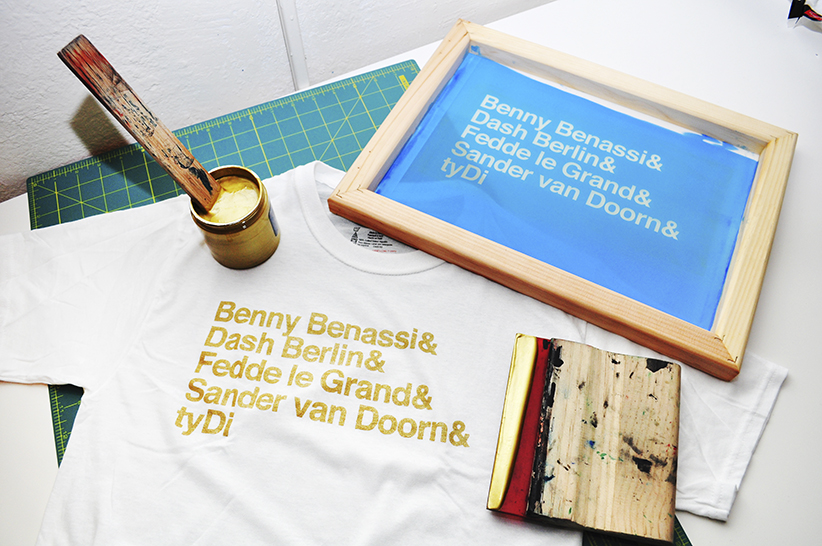
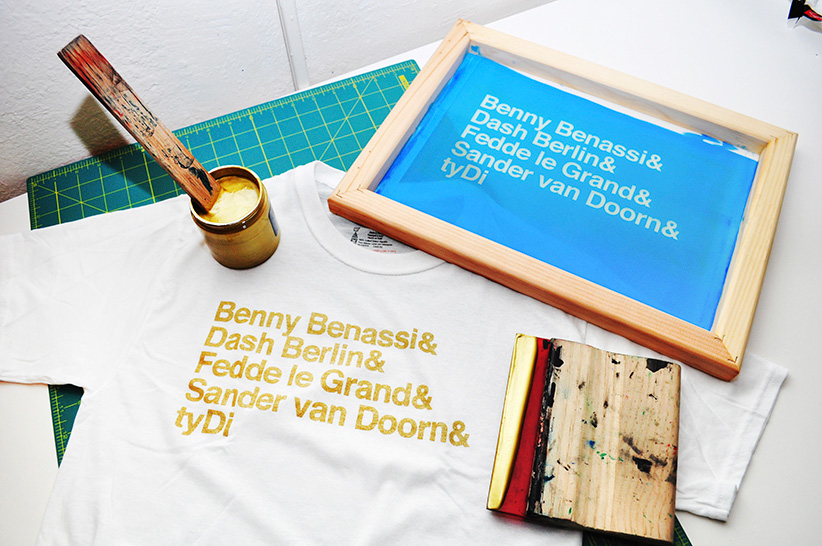
lower quality images processed and htmls updated

diff --git a/photo/8.html b/photo/8.html
@@ -31,7 +31,7 @@
         <div class='hr bg-green'></div>
         <div class='vspace110'></div>
         <div class='content'>
-          <img src="../img/intothecircle/photos/familys-friend.png"/>
+          <img src="../img/intothecircle/photos/familys-friend.jpg"/>
         </div>
       </div>
       <footer></footer>

diff --git a/photo/15.html b/photo/15.html
@@ -31,7 +31,7 @@
         <div class='hr bg-green'></div>
         <div class='vspace110'></div>
         <div class='content'>
-          <img src="../img/intothecircle/photos/welcome_copy.png"/>
+          <img src="../img/intothecircle/photos/welcome_copy.jpg"/>
         </div>
       </div>
       <footer></footer>

diff --git a/photo/5.html b/photo/5.html
@@ -31,7 +31,7 @@
         <div class='hr bg-green'></div>
         <div class='vspace110'></div>
         <div class='content'>
-          <img src="../img/intothecircle/photos/DSC_0073.png"/>
+          <img src="../img/intothecircle/photos/DSC_0073.jpg"/>
         </div>
       </div>
       <footer></footer>

diff --git a/photo/11.html b/photo/11.html
@@ -31,7 +31,7 @@
         <div class='hr bg-green'></div>
         <div class='vspace110'></div>
         <div class='content'>
-          <img src="../img/intothecircle/photos/skyline.png"/>
+          <img src="../img/intothecircle/photos/skyline.jpg"/>
         </div>
       </div>
       <footer></footer>

diff --git a/photo/14.html b/photo/14.html
@@ -31,7 +31,7 @@
         <div class='hr bg-green'></div>
         <div class='vspace110'></div>
         <div class='content'>
-          <img src="../img/intothecircle/photos/street.png"/>
+          <img src="../img/intothecircle/photos/street.jpg"/>
         </div>
       </div>
       <footer></footer>

diff --git a/photo/9.html b/photo/9.html
@@ -31,7 +31,7 @@
         <div class='hr bg-green'></div>
         <div class='vspace110'></div>
         <div class='content'>
-          <img src="../img/intothecircle/photos/norco2.png"/>
+          <img src="../img/intothecircle/photos/norco2.jpg"/>
         </div>
       </div>
       <footer></footer>

diff --git a/photo/13.html b/photo/13.html
@@ -31,7 +31,7 @@
         <div class='hr bg-green'></div>
         <div class='vspace110'></div>
         <div class='content'>
-          <img src="../img/intothecircle/photos/train.png"/>
+          <img src="../img/intothecircle/photos/train.jpg"/>
         </div>
       </div>
       <footer></footer>

diff --git a/photo/10.html b/photo/10.html
@@ -31,7 +31,7 @@
         <div class='hr bg-green'></div>
         <div class='vspace110'></div>
         <div class='content'>
-          <img src="../img/intothecircle/photos/shoe.png"/>
+          <img src="../img/intothecircle/photos/shoe.jpg"/>
         </div>
       </div>
       <footer></footer>

diff --git a/photo/16.html b/photo/16.html
@@ -31,7 +31,7 @@
         <div class='hr bg-green'></div>
         <div class='vspace110'></div>
         <div class='content'>
-          <img src="../img/intothecircle/photos/bird.png"/>
+          <img src="../img/intothecircle/photos/bird.jpg"/>
         </div>
       </div>
       <footer></footer>

diff --git a/photo/1.html b/photo/1.html
@@ -31,7 +31,7 @@
         <div class='hr bg-green'></div>
         <div class='vspace110'></div>
         <div class='content'>
-          <img src="../img/intothecircle/photos/1.png"/>
+          <img src="../img/intothecircle/photos/1.jpg"/>
         </div>
       </div>
       <footer></footer>

diff --git a/photo/2.html b/photo/2.html
@@ -31,7 +31,7 @@
         <div class='hr bg-green'></div>
         <div class='vspace110'></div>
         <div class='content'>
-          <img src="../img/intothecircle/photos/2.png"/>
+          <img src="../img/intothecircle/photos/2.jpg"/>
         </div>
       </div>
       <footer></footer>

diff --git a/photo/3.html b/photo/3.html
@@ -31,7 +31,7 @@
         <div class='hr bg-green'></div>
         <div class='vspace110'></div>
         <div class='content'>
-          <img src="../img/intothecircle/photos/3.png"/>
+          <img src="../img/intothecircle/photos/3.jpg"/>
         </div>
       </div>
       <footer></footer>
